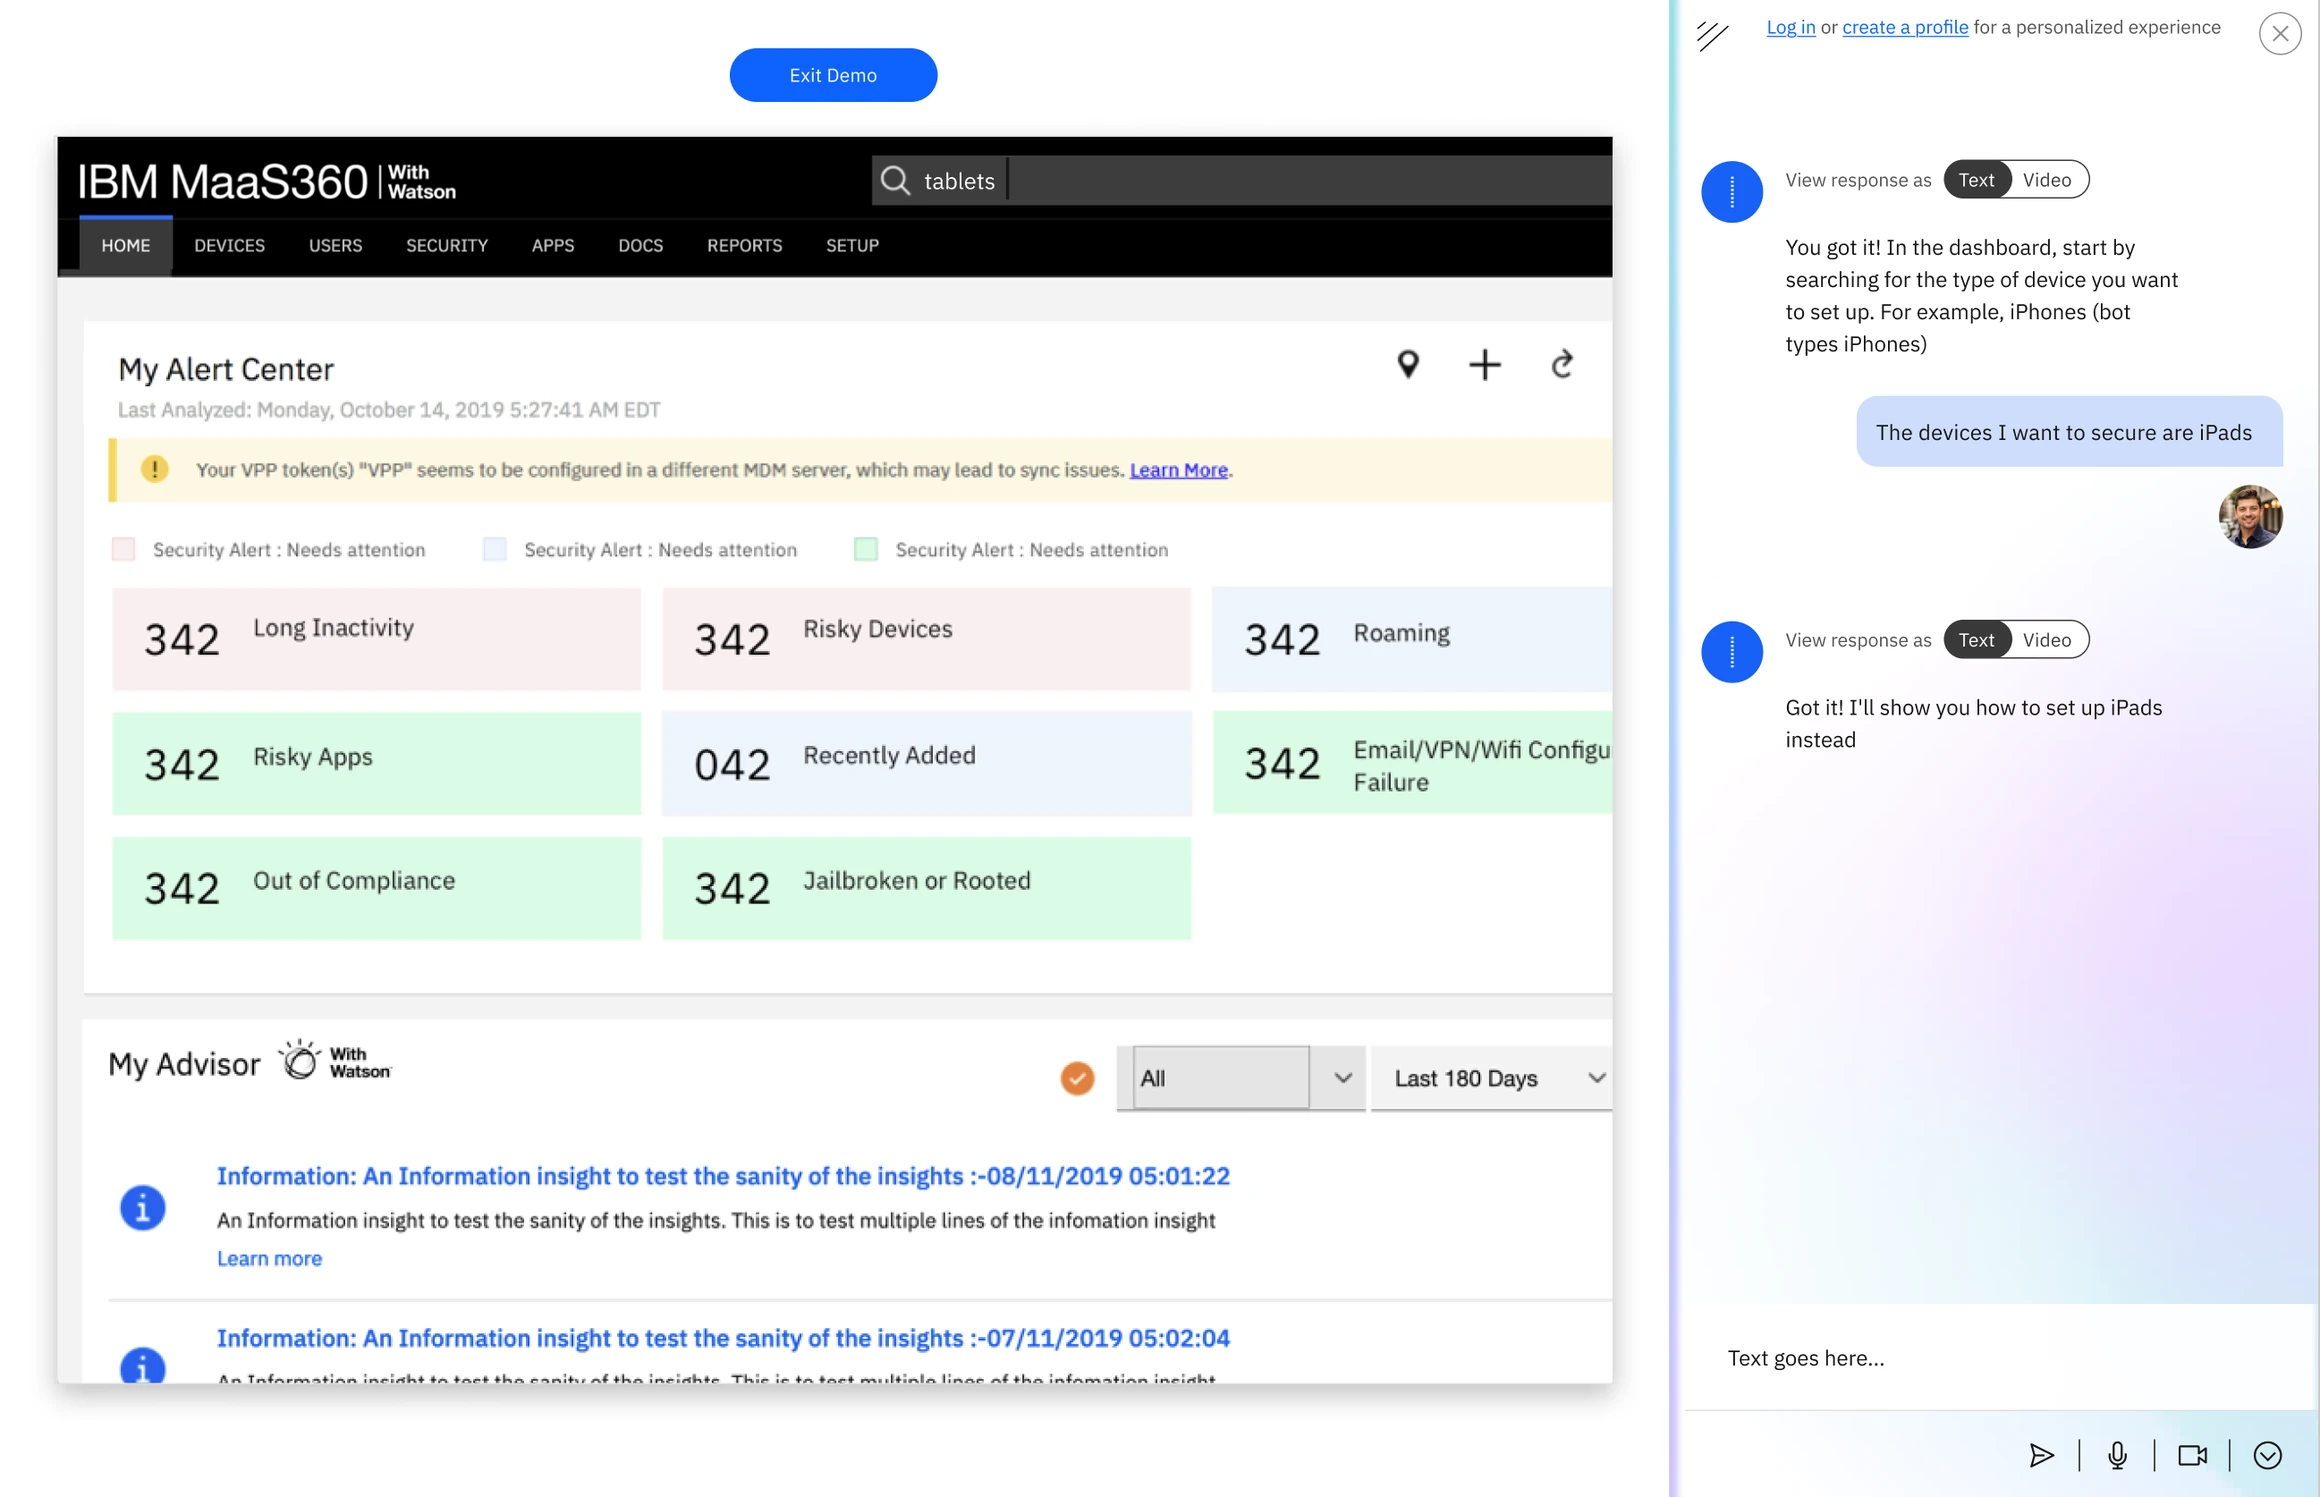
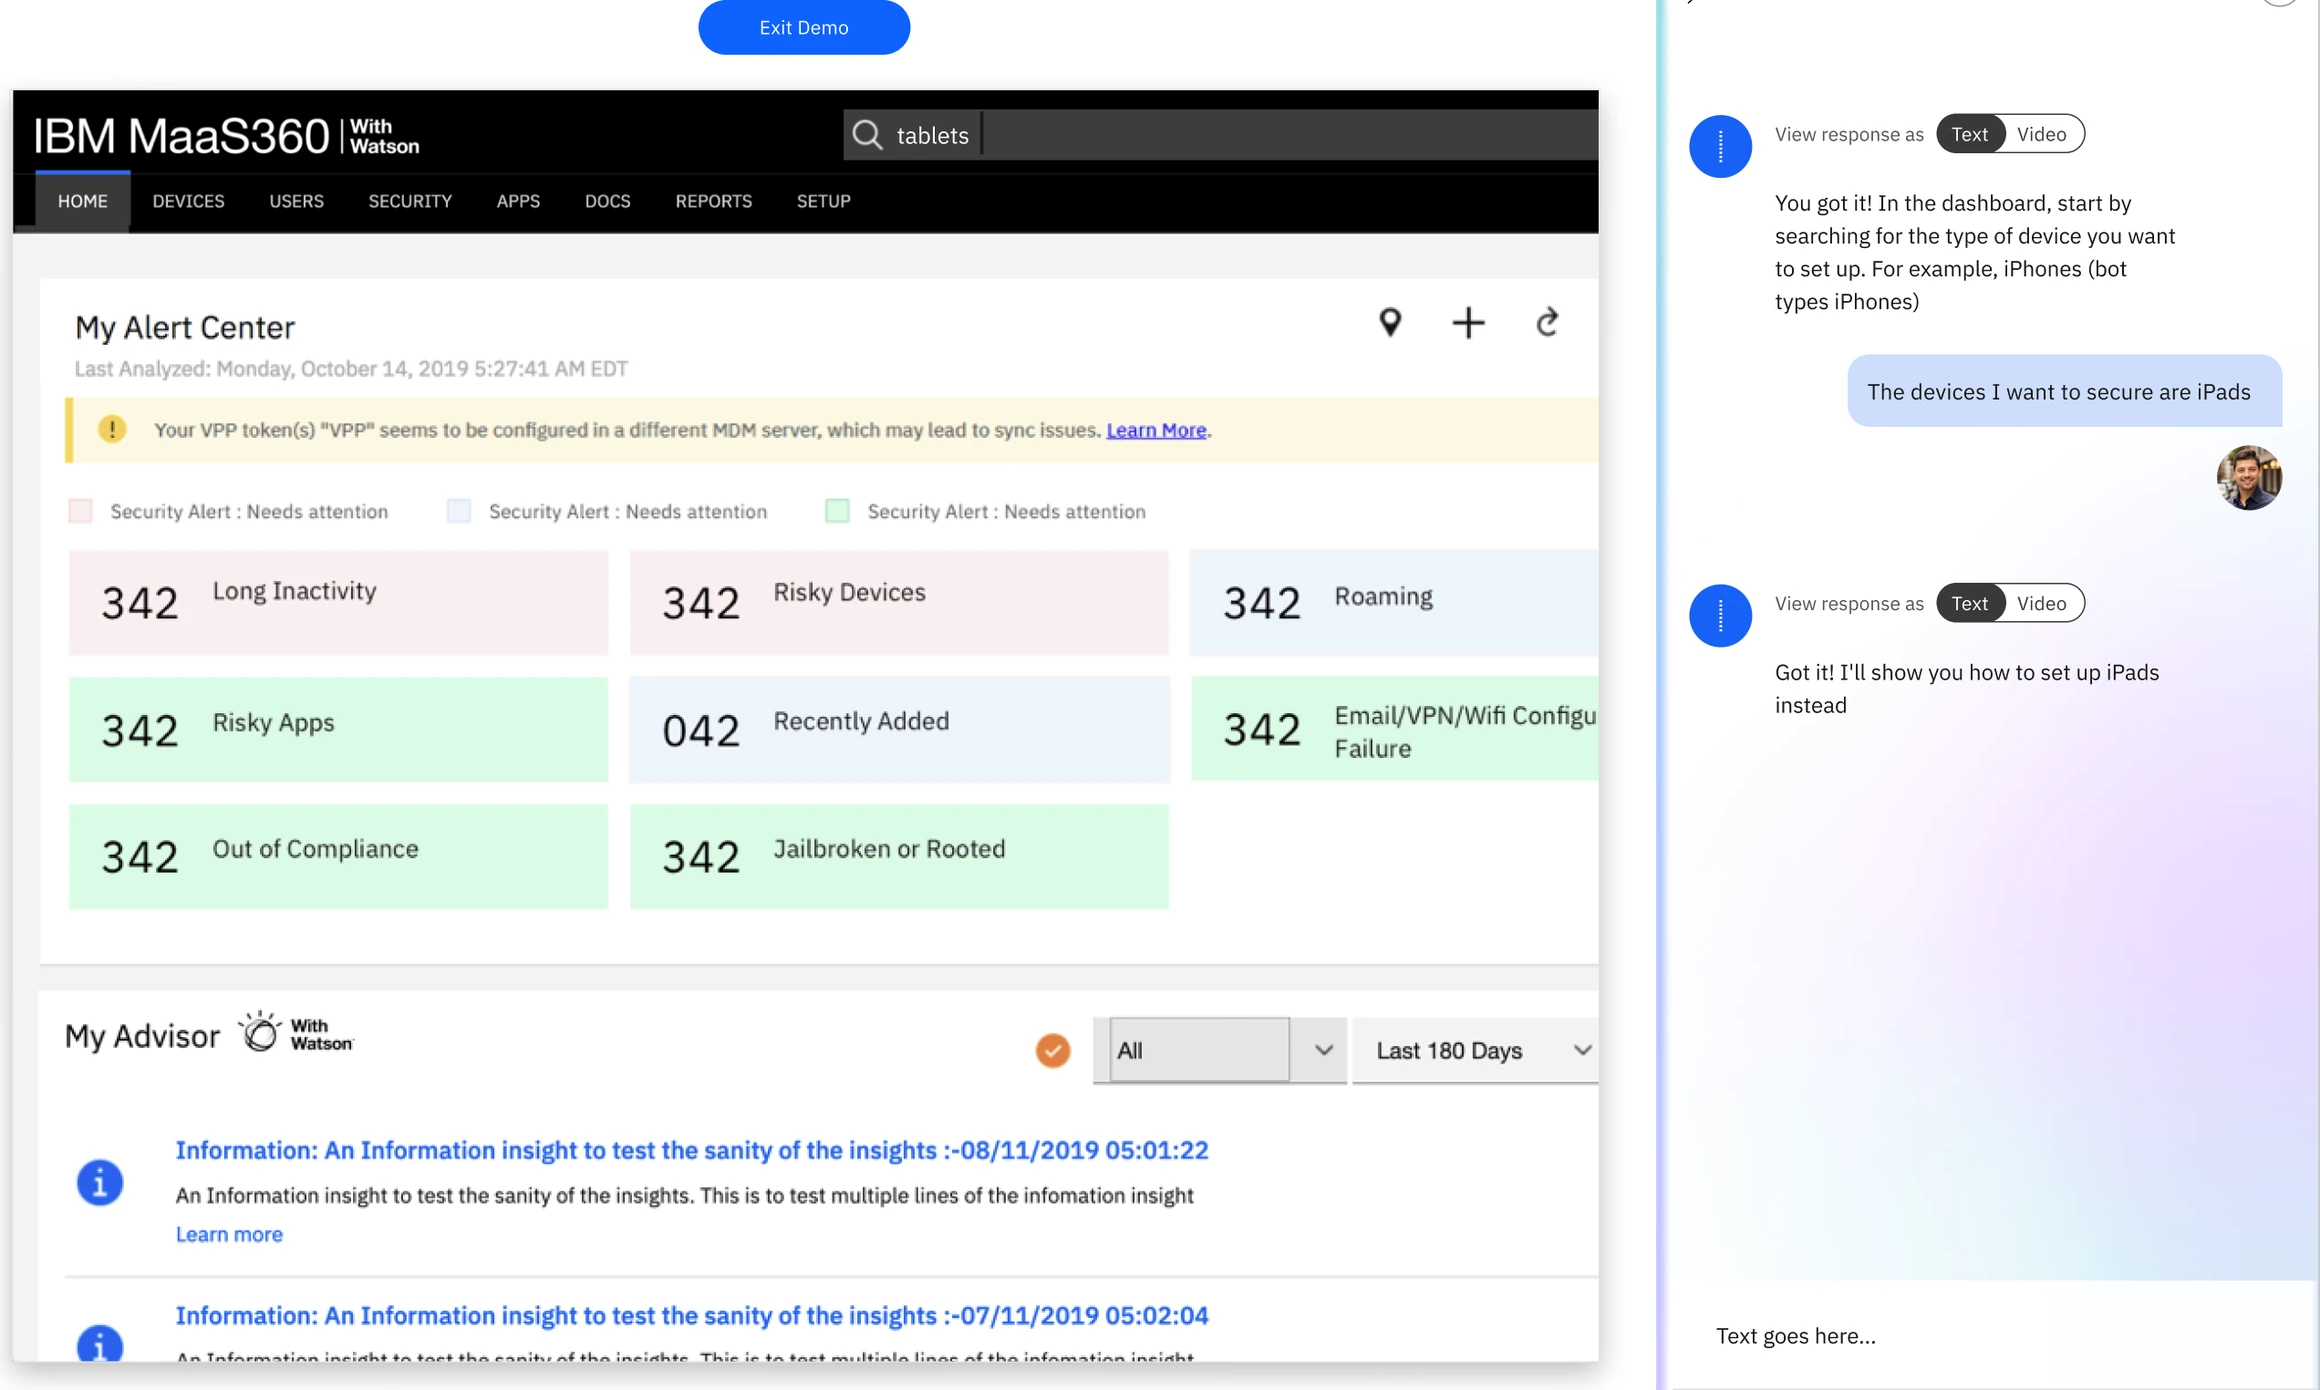
Take the white out of the Concierge hero figure
I had been cropping the image and reporting three-point improvements, because I
was only ever looking at the file. Seeing it rendered on the page showed the
other half: .hero-figure .figure-image-wrap put 16px of padding on a white
--surface ground, so the screenshot's own white margins met a white frame met a
white card, on a --paper page. Three whites stacked.

Both gone. The image is cropped to its content, 50px off the left, 54 off the
top, and the bottom cut at the demo modal's own edge so the two columns finish
together. The wrapper loses its padding and takes --paper-deep, so the frame
stops adding white of its own.

.hero-figure img also dropped height:100% with object-fit:contain, which
letterboxes into white bars the moment the wrapper has any height. Back to the
base rule, width 100% and height auto.

What is left is inside the screenshot: the gap between the dashboard and the
chat rail, and the void under a two-turn conversation in a full-height sidebar.
Cropping cannot reach either. That needs a recapture with more turns.

Intrinsic height updated to match the new crop so the reserved space stays
correct.

Claude-Session: https://claude.ai/code/session_01WKqLttd4b5yABJjEJjSP7v

diff --git a/site/app/concierge/page.tsx b/site/app/concierge/page.tsx
@@ -131,7 +131,7 @@ export default function Home() {
             label="01 · hero"
             caption="Asked for iPhones, told it meant iPads. Correcting the assistant costs one sentence, and the demo beside it follows."
             width={2320}
-            height={1497}
+            height={1390}
             className="hero-figure"
           />
         </section>

diff --git a/site/app/globals.css b/site/app/globals.css
@@ -1345,13 +1345,12 @@ h3 {
 }
 
 .hero-figure .figure-image-wrap {
-  padding: 16px;
-  background: var(--surface);
+  padding: 0;
+  background: var(--paper-deep);
 }
 
 .hero-figure img {
-  height: 100%;
-  object-fit: contain;
+  height: auto;
 }
 
 .summary-band {
